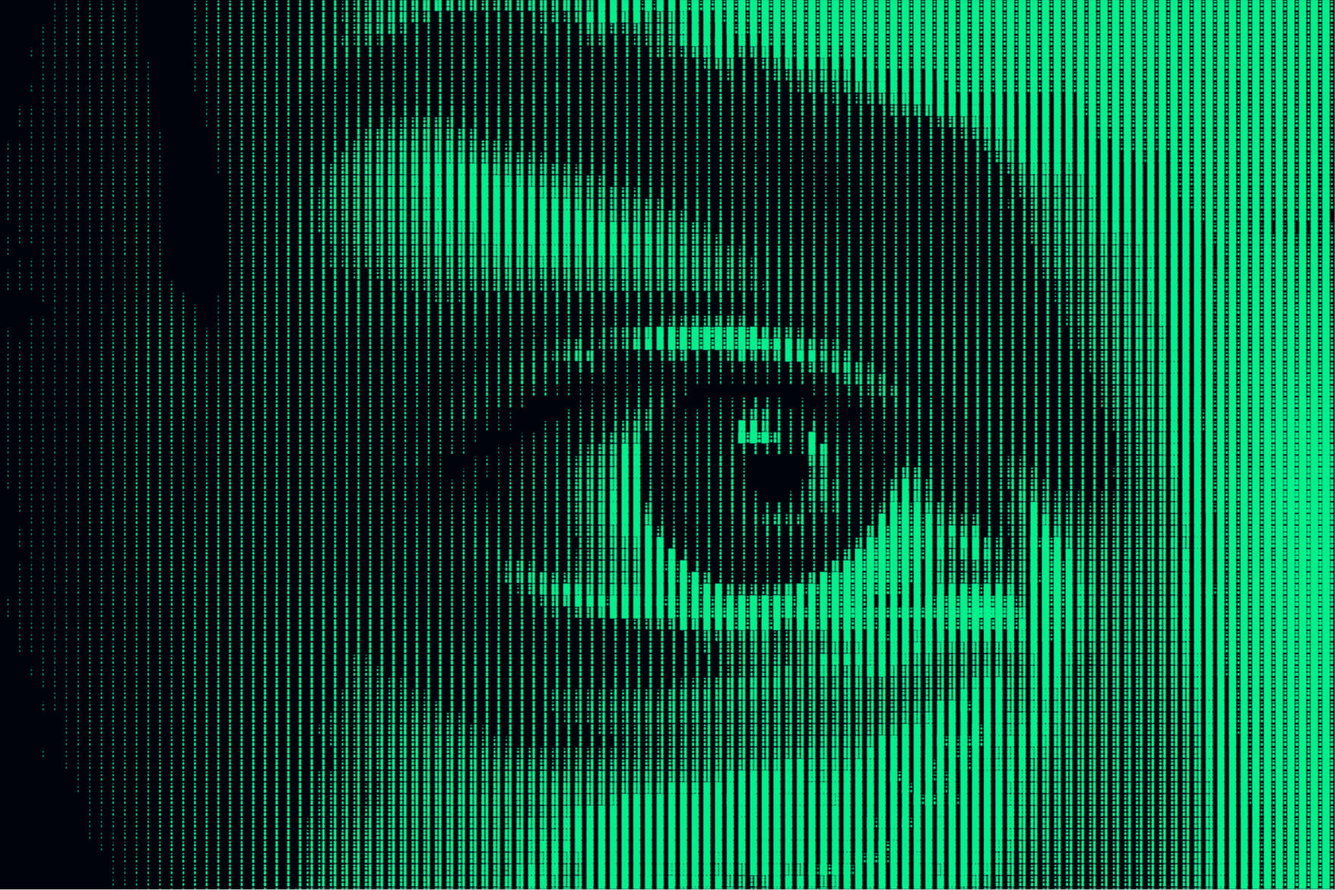
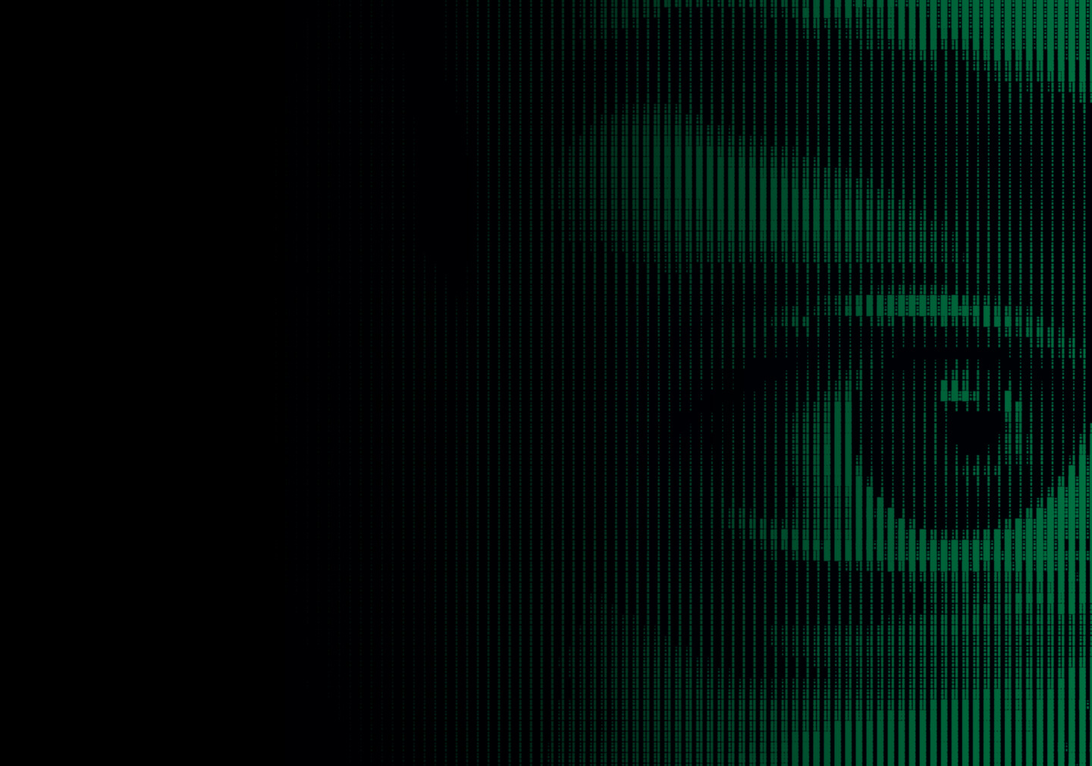
new bg

diff --git a/src/pages/home/homepage.tsx b/src/pages/home/homepage.tsx
@@ -6,6 +6,7 @@ import { useNetworkInfo } from "global/stores/networkInfo";
 import { Mixpanel } from "mixpanel";
 import { NavLink } from "react-router-dom";
 import bg from "assets/bg.jpg";
+
 const Homepage = () => {
   const account = useNetworkInfo().account;
 
@@ -47,8 +48,9 @@ const Styled = styled.div`
   display: grid;
   align-content: center;
   height: 100%;
+  z-index: 0;
   .options {
-    z-index: 10;
+    z-index: 1;
     display: flex;
     flex-direction: column;
     justify-content: center;
@@ -59,39 +61,40 @@ const Styled = styled.div`
     position: absolute;
     height: 100vh;
     width: 100vw;
-    top: 0;
-    left: 0;
-    z-index: 0;
-    opacity: 0.4;
-
     background: url(${bg}),
-      linear-gradient(
-        270deg,
-        rgba(255, 255, 255, 0) 0%,
-        rgba(255, 255, 255, 0) 0.01%,
-        rgba(255, 255, 255, 0.0086472) 6.67%,
-        rgba(255, 255, 255, 0.03551) 13.33%,
-        rgba(255, 255, 255, 0.051374) 15.62%,
-        rgba(255, 255, 255, 0.0816599) 20%,
-        rgba(255, 255, 255, 0.147411) 26.67%,
-        rgba(255, 255, 255, 0.231775) 33.33%,
-        rgba(255, 255, 255, 0.286522) 36.98%,
-        rgba(255, 255, 255, 0.331884) 40%,
-        rgba(255, 255, 255, 0.442691) 46.67%,
-        rgba(255, 255, 255, 0.557309) 53.33%,
-        rgba(255, 255, 255, 0.649071) 59.99%,
-        rgba(255, 255, 255, 0.668116) 60%,
-        rgba(255, 255, 255, 0.768225) 66.67%,
-        rgba(255, 255, 255, 0.852589) 73.33%,
-        rgba(255, 255, 255, 0.889574) 77.6%,
-        rgba(255, 255, 255, 0.91834) 80%,
-        rgba(255, 255, 255, 0.96449) 86.67%,
-        rgba(255, 255, 255, 0.972045) 86.68%,
-        rgba(255, 255, 255, 0.991353) 93.33%,
-        #ffffff 100%
+      linear-gradient(90deg, rgba(0, 0, 0, 1) 40%, rgba(0, 0, 0, 0) 60%),
+      linear-gradient(180deg, #06fc99 0%, #06fc99 50%, rgba(0, 0, 0, 1) 100%);
+    background-position: 100%;
+    background-size: contain;
+    top: 0;
+    background-repeat: no-repeat;
+
+    &::after {
+      content: " ";
+      position: absolute;
+      height: 100vh;
+      width: 100vw;
+      background: linear-gradient(
+        90deg,
+        #00000015,
+        #000000b9,
+        #00000013,
+        #000000c0
       );
-    background-size: cover;
-    background-position: 40%;
+      background-size: 200% 200%;
+      animation: movingFade 10s ease infinite;
+      @keyframes movingFade {
+        0% {
+          background-position: 0% 50%;
+        }
+        50% {
+          background-position: 100% 50%;
+        }
+        100% {
+          background-position: 0% 50%;
+        }
+      }
+    }
   }
 
   a {
@@ -104,7 +107,8 @@ const Styled = styled.div`
     width: 100%;
     padding-left: 1rem;
     border-radius: 4px;
-    transition: background-color 0.5s;
+    transition: background-color 0.6s ease-in;
+    transition: transform 0.3s ease-in-out;
     background-color: transparent;
     background-size: 0% 100%;
     &:hover {
@@ -117,7 +121,8 @@ const Styled = styled.div`
       );
       background-repeat: no-repeat;
       background-size: 200% 100%;
-      transition: background-size 1s, background-color 1s;
+      transition: background-size 0.7s, background-color 0.7s;
+      transform: scale(1.1);
     }
   }
 `;

diff --git a/src/pages/home/hooks/useMouse.tsx b/src/pages/home/hooks/useMouse.tsx
@@ -1,0 +1,18 @@
+import React from "react";
+const useMousePosition = () => {
+  const [mousePosition, setMousePosition] = React.useState({
+    x: 0,
+    y: 0,
+  });
+  React.useEffect(() => {
+    const updateMousePosition = (ev: MouseEvent) => {
+      setMousePosition({ x: ev.clientX, y: ev.clientY });
+    };
+    window.addEventListener("mousemove", updateMousePosition);
+    return () => {
+      window.removeEventListener("mousemove", updateMousePosition);
+    };
+  }, []);
+  return mousePosition;
+};
+export default useMousePosition;

diff --git a/src/global/components/nFooter.tsx b/src/global/components/nFooter.tsx
@@ -69,6 +69,7 @@ const Styled = styled.div`
   justify-content: space-between;
   align-items: center;
   padding: 1rem 0;
+  z-index: 2;
   .links {
     display: flex;
     align-items: center;
